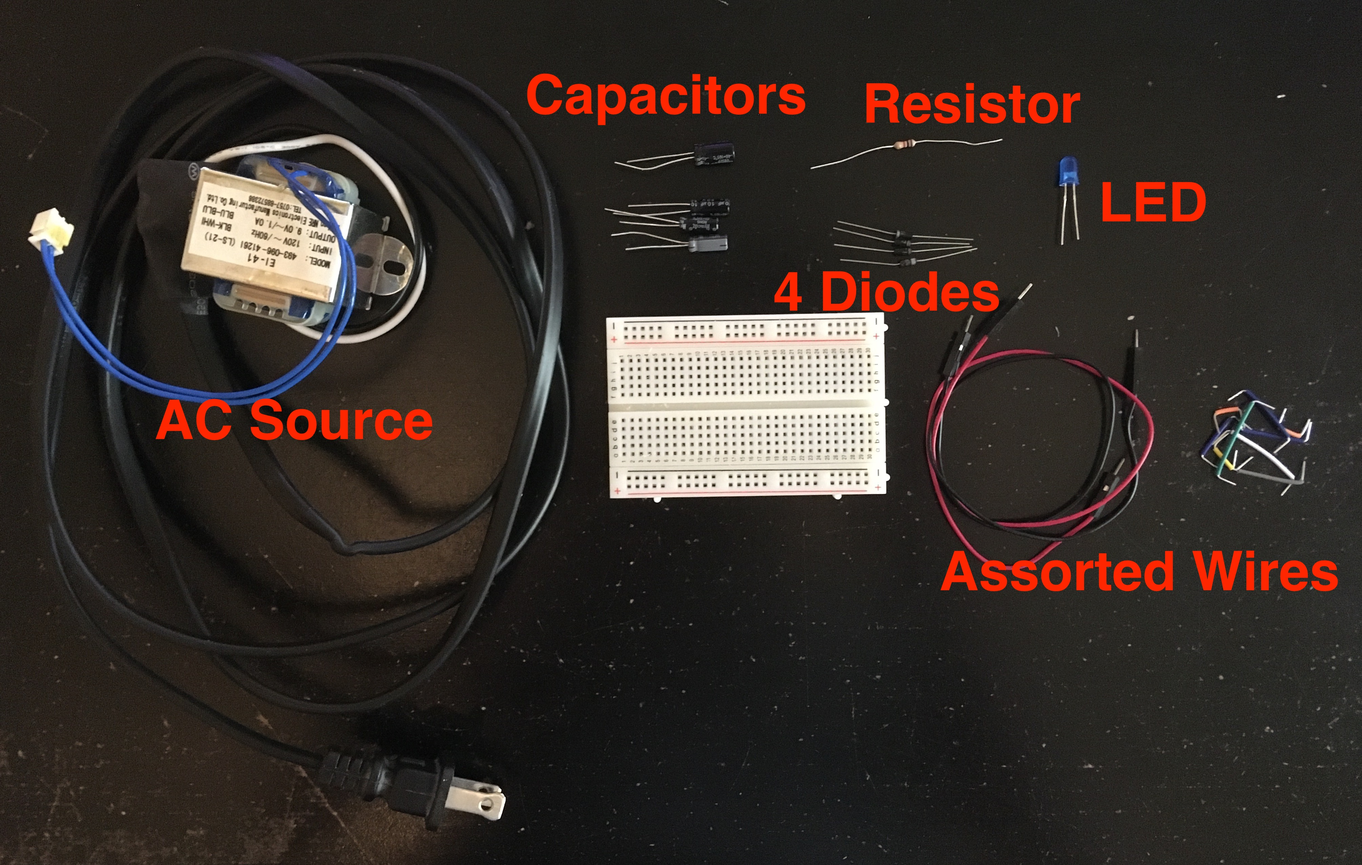
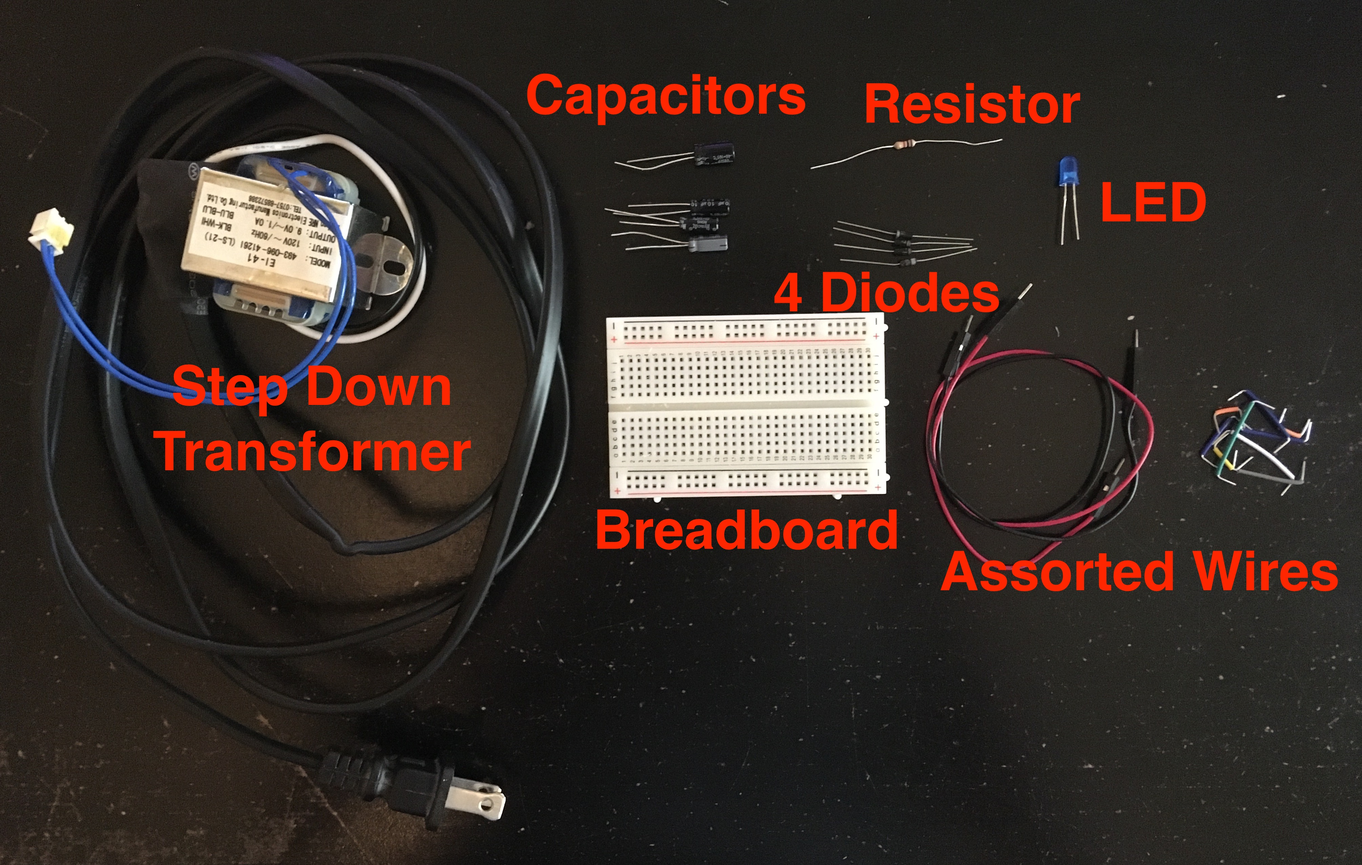
added project section

Changed region(s): [[0.0933, 0.402, 0.3421, 0.5566], [0.4354, 0.5875, 0.6842, 0.6493], [0.6842, 0.3401, 0.7154, 0.371]]

diff --git a/projects/rectifier.html b/projects/rectifier.html
@@ -18,17 +18,40 @@
 		<hr>
 		<section>
 			<h3>Introduction</h3>
+			<br>
 			<h4>What are AC and DC?</h4>
 			<p>&emsp;&emsp;In electronics, rectifiers are used to convert alternating current (AC) to direct current (DC). DC is simpler and is how most of first learn about electricity. Electrons flow constantly from one terminal to the other, in the process powering whatever load the circuit may demand. Conventionally this flow of electrons is from the positive terminal to the negative terminal, but in actuality electrons are attracted to the positive terminal and repelled by the negative terminal. Typically, DC is visualized as a flat voltage line (usually positive). In reality, this is not always the case. Noise in the circuit can produce little oscillations about this flat voltage line generating ripple in the supply current. This is a common concern when using switching power supply circuits such as DC-DC voltage converters.</p>
 			<p>&emsp;&emsp;On the other hand, AC is not so intuitive. Instead of flowing in one direction, electrons are pulled back and forth through the circuit. This is accomplished by reversing the voltage&mdash;the difference in electric potential pushing or pulling the electrons&mdash;from positive to negative. Typically, AC is visualized as a sinusoidal wave centered about zero voltage. This a valid representation of the current flowing from the wall outlet, but it again may be suscepitble to noise. Current can alternate directions in waveforms other than sinusoids as well, such as triangles or squares.</p>
 			<h4>Why use AC or DC?</h4>
 			<p>&emsp;&emsp;Many electronic components including most integrated circuits (ICs) you would see on a printed circuit board (PCB) are only designed to handle current flow in one direction. In other words, they have an associated polarity. Forcing current flow in the opposite direction could damage the components. For this reason most small control electronics are powered via DC. Therefore, almost all devices plugging into wall outlets in the home include an internal rectifier circuit to transform AC from the wall outlet to DC for the device's control electronics. Additionally, wireless devices using batteries receive DC power from the battery and must use DC to recharge the battery.</p> 
-			<p>&emsp;&emsp;In the home, wall outlets are commonly understood to have a voltage of 120V and alternate at a frequency of 60 Hz. 120V is the root-mean-square (RMS) voltage of the AC source, while the voltage is actually oscillating back and forth between -170V and +170V. RMS voltage is basically a convenient metric for measuring the magnitude of alternating current in a way that is comparable with direct current. As the name would suggest, one could calculate the RMS voltage by recording at high resolution one period of oscillation of the AC signal, squaring each value, averaging them, and taking the square root. DC at the RMS voltage level would effectively have the same impact on the circuit as the AC voltage in terms of power dissipation. AC is used to transport energy over long distances such as over power lines since it is more efficient than DC due to greater losses during both power generation and transmission for DC power. It's also easier to step up AC voltage. To further reduce the energy loss to heat on power lines, the voltage is also stepped up to reduce the current flow for the same power thereby reducing the power dissipated on the wire. Additionally, AC allows one to induce current in wires not touching the original wire which is used in many applications like transformers, paired inductors, AC motors, wireless chargers, and more.</p>
-			<p>&emsp;&emsp;The most typical method for rectifying AC to DC is to use what is called a full bridge rectifier. Behind an intimidatingly long name lies a relatively simple concept relying just on some diodes to restrict voltage flow in one direction. </p>
+			<p>&emsp;&emsp;AC is used in power distribution systems since it is much more efficient than using DC. This is due to a number of reasons including simpler power generation, simpler power transformation, and more efficient power transmission in AC systems. Power transformation is a key aspect of the efficiency of the power distribution system since higher voltage power with correspondingly lower current will have significantly smaller resistive losses during transmission. Transformers which rely on the properties of AC make the stepping up and stepping down of voltage fairly simple. On the note of transformers, AC also allows one to use current in one wire to induce current in another. This concept of mutual inductance associated with AC is used in many applications like transformers, paired inductors, AC motors, wireless chargers, and more.</p>
+			<h4>AC in the Home</h4>
+			<p>&emsp;&emsp;In the home, wall outlets are commonly understood to have a voltage of 120V and alternate at a frequency of 60 Hz. 120V is the root-mean-square (RMS) voltage of the AC source, while the voltage is actually oscillating back and forth between -170V and +170V. RMS voltage is basically a convenient metric for measuring the magnitude of alternating current in a way that is comparable with direct current. As the name would suggest, one could calculate the RMS voltage by recording at high resolution one period of oscillation of the AC signal, squaring each voltage value, averaging them, and taking the square root. DC voltage with the same magnitude as the RMS voltage level would effectively have the same impact on the circuit as the RMS voltage in terms of power dissipation.</p>
+			<h4>Rectifiers</h4>
+			<p>&emsp;&emsp;One of the simplest ways to rectify AC voltage is to simply place a diode in the circuit. Acting as a one-way channel, the diode only allows current to flow in one direction. The current that would otherwise flow in the opposite direction as the voltage switches directions is blocked. The current that is allowed to passed through is no longer alternating, but neither is it constant as DC should be. Instead, the current repeats itself rising from zero to a max value and then back to zero. To reduce this waveform to a constant voltage, capacitors can be added in to the circuit. As the voltage of the AC source rises, the voltage across the capacitor will also rise. When the voltage of the AC source begins to drop, the voltage stored across the capacitor allows current to discharge from the capacitor into the circuit fighting the lowering voltage. The larger the capacitance of the capacitor, the more charge it can store and the better it does at smoothing the output voltage.</p>
+			<p>&emsp;&emsp;Although simple, a single diode rectifier fails to convert the negative waveform of the AC resulting in no current flowing half of the time! To address this drawback, the more common method for rectifying AC to DC is to use what is called a full bridge rectifier. Behind an intimidatingly long name lies a relatively simple concept relying just on some more diodes to force all of the flow in one direction. Through a set of four diodes arranged in a bridge like formation, current will flow in one direction through the circuit regardless of which direction it flows through the full bridge rectifier. Again, capacitors are needed to smooth the repeating voltage on the output, but it's a little easier when the input voltage isn't zero half the time as was the case with the single diode rectifier. This smoothing process is never perfect and so the resulting DC voltage usually has some ripples in it.</p>
+		</section>
+		<section>
+			<h3>The Project</h3>
+			<p>&emsp;&emsp;In this project, I use both single diode rectifier and full bridge rectifier circuits with varying numbers of smoothing capacitors to rectify AC voltage coming from my wall outlet. Using the slow motion camera on my iPhone which records at 240 fps in conjunction with an LED load in the circuit, the different rectifier circuits can be analyzed and compared. I decided to analyze the rectifier circuit with an iPhone camera instead of a more powerful tool like an oscilloscope for two reasons. First, I don't have one. Second, other people aren't likely to have them either as they are expensive specialized tools. Any modern smart phone should be capable of recording at high enough frame rates to conduct the basic analysis of a rectifier that I will describe here.</p>
+			<p>&emsp;&emsp;I have an iPhone SE which can record at 30, 60, 120, and 240 fps at varying resolutions. To check which settings you're currently using on your iPhone simple navigate to Settings -> Camera as I've shown in the image below.</p>
 			<img src="../images/electronics/rectifier/iphoneFrameRate.png" alt="Screenshot of iPhone Camera Settings" class="center">
 			<p class="label">iPhone Camera Settings</p>
+			<p>&emsp;&emsp;For this project, you will need the following components:</p>
+			<ul>
+				<li>Step down Transformer</li>
+				<li>Capacitors - for output voltage smoothing</li>
+				<li>4 Diodes - for rectifiers</li>
+				<li>Breadboard - for circuit layout</li>
+				<li>1 LED</li>
+				<li>1 Resistor - current limiting for LED</li>
+				<li>Assorted wires</li>
+			</ul>
+			<br>
+			<p>&emsp;&emsp;The LED in this circuit serves as a visual representation of the instantaneous magnitude of current flowing through the circuit. When no current is flowing the LED will be off. As current starts to flow the LED turns on. If the current increases the LED will shine brighter. I connected by breadboard circuit to the AC supply from the wall outlet using a step down voltage transformer so as to avoid exceeding the voltage limitations of my circuit components. Any step down transformer that would bring the voltage below the max ratings of your components would be acceptable. In my case, I'm using an old step down transformer I took off of a junked speaker that outputs 9V when connected to the 120V wall outlet.</p>
 			<img src="../images/electronics/rectifier/supplies.jpg" alt="Electronic Supplies Laid on Table" class="center">
 			<p class="label">Required Supplies</p>
+			<p>&emsp;&emsp;The diodes, LED, and electrolytic capacitors all have polarities, so make sure to place them in the correct orientation as you build your circuit. When first trialing the rectifier circuit, I accidentally reversed the polarity of the rectifying diodes exposing my electrolytic capacitor to -9V and causing it to blow up.</p>
 			<video controls="controls" name="Capacitor Explodes Under Reverse Voltage" src="../images/electronics/rectifier/capExplosion.mp4" class="center"></video>
 			<p class="label">Capacitor Explodes Under Reverse Voltage</p>
 		</section>
